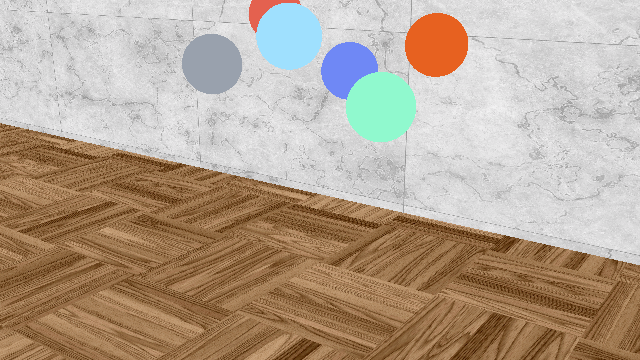
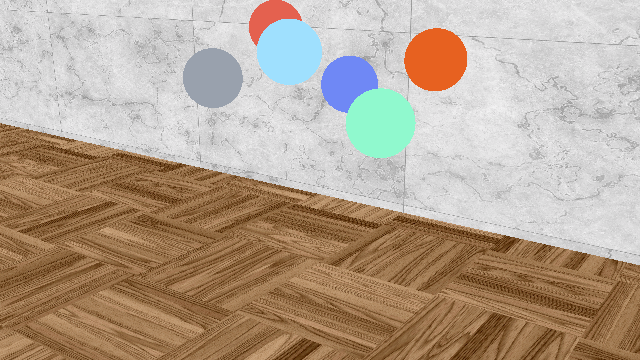
Regenerate renderer gallery review images

Changed region(s): [[0.2812, 0.0, 0.75, 0.4583], [0.625, 0.0306, 0.75, 0.1222]]

diff --git a/tools/docs/media/capture_renderer_gallery.py b/tools/docs/media/capture_renderer_gallery.py
@@ -78,11 +78,79 @@ def snapshot_camera_tensor(data: Any) -> Any:
     return data.detach().to(device="cpu", copy=True)
 
 
+def motion_vectors_to_image(data: Any) -> Any:
+    """Colorize motion vectors and overlay sparse image-space direction arrows."""
+    import numpy as np
+    import torch
+    from PIL import Image, ImageDraw
+
+    data = snapshot_camera_tensor(data)
+    uv = data[..., :2].float()
+    raw_magnitude = torch.linalg.vector_norm(uv, dim=-1)
+    max_magnitude = max(float(raw_magnitude.quantile(0.99)), 1.0e-6)
+    normalized_uv = (uv / max_magnitude).clamp(-1.0, 1.0)
+    normalized_magnitude = torch.linalg.vector_norm(normalized_uv, dim=-1).clamp(0.0, 1.0)
+    array = (
+        torch.cat(((normalized_uv + 1.0) * 0.5, normalized_magnitude.unsqueeze(-1)), dim=-1)
+        .mul(255)
+        .to(torch.uint8)
+        .numpy()
+    )
+    image = Image.fromarray(np.ascontiguousarray(array).copy(), mode="RGB")
+    draw = ImageDraw.Draw(image)
+
+    uv_array = normalized_uv.numpy()
+    magnitude_array = normalized_magnitude.numpy()
+    height, width = magnitude_array.shape
+    grid_spacing = max(min(height, width) // 10, 16)
+    arrow_length = grid_spacing * 0.45
+    head_length = max(grid_spacing * 0.18, 4.0)
+
+    for cell_y in range(0, height, grid_spacing):
+        for cell_x in range(0, width, grid_spacing):
+            cell = magnitude_array[
+                cell_y : min(cell_y + grid_spacing, height),
+                cell_x : min(cell_x + grid_spacing, width),
+            ]
+            if cell.size == 0 or float(cell.max()) < 0.08:
+                continue
+            local_y, local_x = np.unravel_index(int(cell.argmax()), cell.shape)
+            y = cell_y + int(local_y)
+            x = cell_x + int(local_x)
+            direction = uv_array[y, x].copy()
+            # Image-space v points up, while raster screen y points down.
+            direction[1] *= -1.0
+            direction_length = float(np.linalg.norm(direction))
+            if direction_length < 1.0e-6:
+                continue
+
+            unit = direction / direction_length
+            end = np.array((x, y), dtype=np.float32) + unit * arrow_length * float(magnitude_array[y, x])
+            start_xy = (float(x), float(y))
+            end_xy = (float(end[0]), float(end[1]))
+            draw.line((start_xy, end_xy), fill=(0, 0, 0), width=4)
+            draw.line((start_xy, end_xy), fill=(255, 255, 255), width=2)
+
+            perpendicular = np.array((-unit[1], unit[0]), dtype=np.float32)
+            head_base = end - unit * head_length
+            head_half_width = head_length * 0.55
+            draw.polygon(
+                (
+                    end_xy,
+                    tuple(head_base + perpendicular * head_half_width),
+                    tuple(head_base - perpendicular * head_half_width),
+                ),
+                fill=(255, 255, 255),
+            )
+
+    return image
+
+
 def thumbnail_frame_index(frame_count: int) -> int:
-    """Select the third captured frame so temporal outputs have motion history."""
-    if frame_count < 3:
-        raise ValueError("At least three animation frames are required to capture thumbnails.")
-    return 2
+    """Select the sixth captured frame so temporal outputs have useful motion history."""
+    if frame_count < 6:
+        raise ValueError("At least six animation frames are required to capture thumbnails.")
+    return 5
 
 
 def renderer_requires_kit(renderer: str) -> bool:
@@ -129,8 +197,8 @@ def _parse_args() -> argparse.Namespace:
         parser.error(f"Scene does not exist: {args.scene}")
     if args.width < 1 or args.height < 1:
         parser.error("Image width and height must be positive.")
-    if args.frames < 3:
-        parser.error("At least three animation frames are required.")
+    if args.frames < 6:
+        parser.error("At least six animation frames are required.")
     if args.physics_steps_per_frame < 1:
         parser.error("Physics steps per frame must be positive.")
     if args.warmup_steps < 0:
@@ -261,11 +329,7 @@ def _capture(args: argparse.Namespace) -> None:
             else:
                 array = CameraFrameColorizer.colorize(data, "segmentation")
         elif output_name == "motion_vectors":
-            uv = data[..., :2].float()
-            max_magnitude = max(float(uv.abs().quantile(0.99)), 1.0e-6)
-            uv = (uv / max_magnitude).clamp(-1.0, 1.0)
-            magnitude = torch.linalg.vector_norm(uv, dim=-1, keepdim=True).clamp(0.0, 1.0)
-            array = torch.cat(((uv + 1.0) * 0.5, magnitude), dim=-1).mul(255).to(torch.uint8).numpy()
+            return motion_vectors_to_image(data)
         else:
             array = data[..., :3].numpy()
             if array.dtype != np.uint8:

diff --git a/tools/docs/media/test_capture_renderer_gallery.py b/tools/docs/media/test_capture_renderer_gallery.py
@@ -1,0 +1,42 @@
+# Copyright (c) 2022-2026, The Isaac Lab Project Developers (https://github.com/isaac-sim/IsaacLab/blob/main/CONTRIBUTORS.md).
+# All rights reserved.
+#
+# SPDX-License-Identifier: BSD-3-Clause
+
+import numpy as np
+import pytest
+import torch
+
+from tools.docs.media.capture_renderer_gallery import motion_vectors_to_image, thumbnail_frame_index
+
+
+def test_thumbnail_uses_sixth_captured_frame():
+    assert thumbnail_frame_index(6) == 5
+
+
+@pytest.mark.parametrize("frame_count", [0, 5])
+def test_thumbnail_requires_six_frames(frame_count):
+    with pytest.raises(ValueError, match="six"):
+        thumbnail_frame_index(frame_count)
+
+
+def test_motion_vector_image_includes_direction_arrows():
+    vectors = torch.zeros((64, 64, 4), dtype=torch.float32)
+    vectors[8:56, 8:56, 0] = 1.0
+    vectors[8:56, 8:56, 1] = 0.5
+
+    image = motion_vectors_to_image(vectors)
+
+    pixels = np.asarray(image)
+    assert pixels.shape == (64, 64, 3)
+    assert np.any(np.all(pixels == 255, axis=-1))
+
+def test_motion_vector_arrows_convert_v_axis_to_screen_y():
+    vectors = torch.zeros((64, 64, 4), dtype=torch.float32)
+    vectors[32, 32, 1] = -1.0
+
+    pixels = np.asarray(motion_vectors_to_image(vectors))
+    white_pixels = np.all(pixels == 255, axis=-1)
+
+    assert np.any(white_pixels[33:, 28:37])
+    assert not np.any(white_pixels[:32])

diff --git a/docs/source/concepts/_renderer_gallery.rst b/docs/source/concepts/_renderer_gallery.rst
@@ -26,7 +26,7 @@
                :width: 100%
                :alt: Color-mapped Newton Warp depth output for six material spheres.
 
-               Depth
+               Depth. Turbo colors progress from near (purple) to far (red).
 
          .. grid-item::
 
@@ -78,7 +78,7 @@
                :width: 100%
                :alt: Color-mapped OVRTX depth output for six material spheres.
 
-               Depth
+               Depth. Turbo colors progress from near (purple) to far (red).
 
          .. grid-item::
 
@@ -110,7 +110,8 @@
                :width: 100%
                :alt: Color-mapped OVRTX motion-vector output for six falling material spheres.
 
-               Motion vectors
+               Motion vectors. Color encodes direction and relative magnitude; arrows show sampled
+               image-space motion.
 
          .. grid-item::
 
@@ -162,7 +163,7 @@
                :width: 100%
                :alt: Color-mapped Isaac RTX depth output for six material spheres.
 
-               Depth
+               Depth. Turbo colors progress from near (purple) to far (red).
 
          .. grid-item::
 
@@ -194,7 +195,8 @@
                :width: 100%
                :alt: Color-mapped Isaac RTX motion-vector output for six falling material spheres.
 
-               Motion vectors
+               Motion vectors. Color encodes direction and relative magnitude; arrows show sampled
+               image-space motion.
 
          .. grid-item::
 

diff --git a/docs/source/concepts/renderers.rst b/docs/source/concepts/renderers.rst
@@ -58,8 +58,8 @@ Renderer outputs at a glance
 The galleries below use the same authored scene, camera, lights, materials, and initial conditions.
 Six spheres exercise mirror-like, transparent, semi-transparent, matte, glossy, and emissive
 materials. The RGB output is animated to show the spheres falling onto the table; the remaining
-outputs are still frames from the same run. Stills use the third rendered frame so temporal outputs,
-such as motion vectors, have valid frame history while the spheres remain near their initial poses.
+outputs are still frames from the same run. Stills use the sixth rendered frame so temporal outputs,
+such as motion vectors, show useful motion while the spheres remain near their initial poses.
 
 Treat the images as a qualitative comparison of feature coverage and image character, not a
 performance benchmark. The kit-less renderers use Newton physics while Isaac RTX uses PhysX, so
